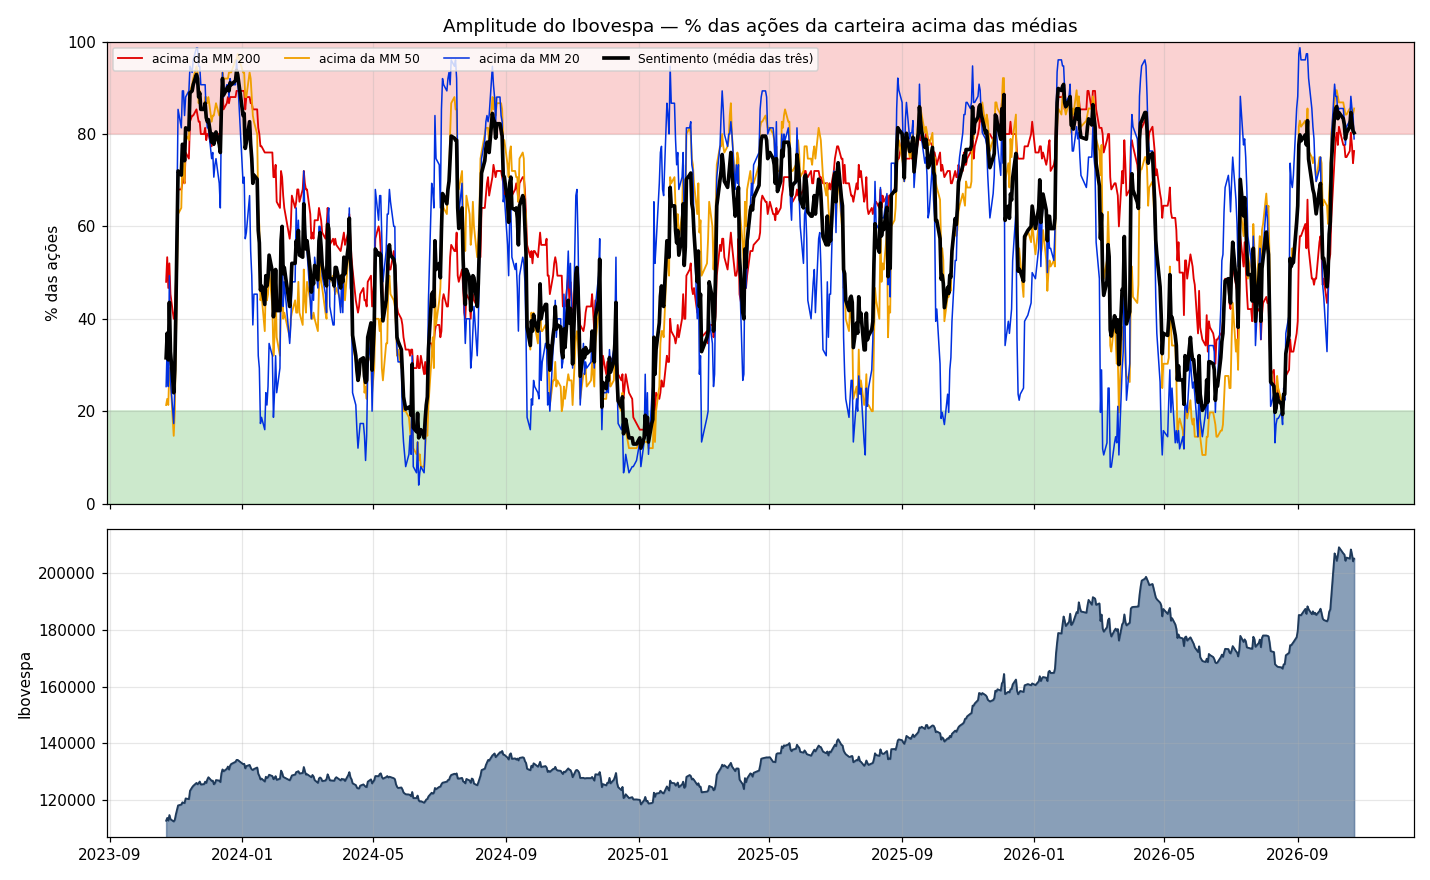
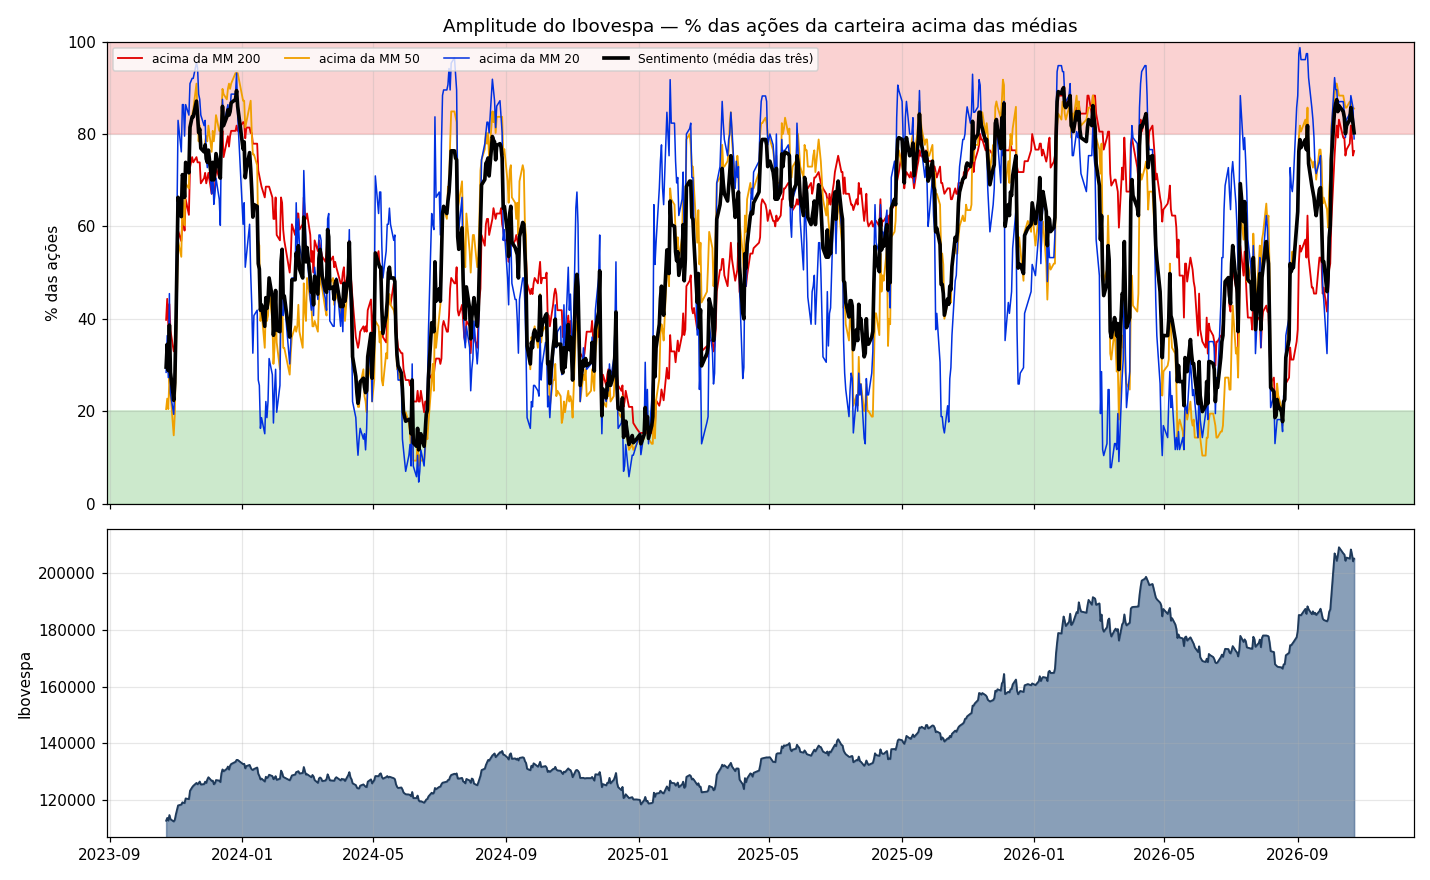
🤖 Auto: Sinal 23/10/2026 18:10

diff --git a/content/amplitude/index.md b/content/amplitude/index.md
@@ -5,7 +5,7 @@ description: "Porcentagem das ações do Ibovespa acima das médias de 20, 50 e 
 tags: [amplitude]
 ---
 
-*Atualizado 23/10/2026 17:57 · fechamento de 23/10/2026.*
+*Atualizado 23/10/2026 18:10 · fechamento de 23/10/2026.*
 
 A **amplitude** mostra quantas ações do Ibovespa estão acompanhando o movimento do índice: a porcentagem das ações da carteira que estão **acima das suas médias** de 20, 50 e 200 pregões. O **sentimento** é a média das três. **Abaixo de 20**: quase todas as ações caindo — exaustão vendedora, região de fundos. **Acima de 80**: quase todas subindo — exaustão compradora, região de topos.
 
@@ -19,42 +19,42 @@ A **amplitude** mostra quantas ações do Ibovespa estão acompanhando o movimen
 | Data | Sentimento | MM 20 | MM 50 | MM 200 |
 |---|---|---|---|---|
 | 23/10/2026 | **80%** 🔴 | 79% | 86% | 76% |
-| 22/10/2026 | **81%** 🔴 | 84% | 84% | 74% |
-| 21/10/2026 | **82%** 🔴 | 86% | 84% | 78% |
-| 20/10/2026 | **85%** 🔴 | 88% | 86% | 80% |
-| 19/10/2026 | **82%** 🔴 | 83% | 86% | 76% |
-| 16/10/2026 | **80%** 🔴 | 82% | 84% | 75% |
-| 15/10/2026 | **79%**  | 78% | 84% | 75% |
-| 14/10/2026 | **82%** 🔴 | 83% | 86% | 78% |
-| 13/10/2026 | **83%** 🔴 | 86% | 87% | 78% |
-| 09/10/2026 | **85%** 🔴 | 86% | 87% | 82% |
+| 22/10/2026 | **82%** 🔴 | 86% | 86% | 75% |
+| 21/10/2026 | **84%** 🔴 | 87% | 86% | 79% |
+| 20/10/2026 | **86%** 🔴 | 88% | 87% | 82% |
+| 19/10/2026 | **83%** 🔴 | 84% | 87% | 78% |
+| 16/10/2026 | **82%** 🔴 | 83% | 86% | 77% |
+| 15/10/2026 | **80%** 🔴 | 79% | 86% | 75% |
+| 14/10/2026 | **84%** 🔴 | 84% | 87% | 79% |
+| 13/10/2026 | **85%** 🔴 | 87% | 88% | 79% |
+| 09/10/2026 | **86%** 🔴 | 87% | 88% | 83% |
 
 ## Quando entrou nas zonas
 
 | Início | Zona | Sentimento |
 |---|---|---|
-| 16/10/2026 | 🔴 acima de 80 | 80% |
-| 05/10/2026 | 🔴 acima de 80 | 84% |
-| 10/09/2026 | 🔴 acima de 80 | 83% |
-| 18/08/2026 | 🟢 abaixo de 20 | 19% |
-| 11/08/2026 | 🟢 abaixo de 20 | 20% |
+| 05/10/2026 | 🔴 acima de 80 | 85% |
+| 10/09/2026 | 🔴 acima de 80 | 82% |
+| 17/08/2026 | 🟢 abaixo de 20 | 20% |
+| 11/08/2026 | 🟢 abaixo de 20 | 19% |
+| 05/06/2026 | 🟢 abaixo de 20 | 20% |
 | 09/04/2026 | 🔴 acima de 80 | 82% |
-| 19/02/2026 | 🔴 acima de 80 | 82% |
+| 19/02/2026 | 🔴 acima de 80 | 81% |
 | 22/01/2026 | 🔴 acima de 80 | 87% |
-| 02/12/2025 | 🔴 acima de 80 | 85% |
-| 26/11/2025 | 🔴 acima de 80 | 84% |
-| 05/11/2025 | 🔴 acima de 80 | 86% |
-| 16/09/2025 | 🔴 acima de 80 | 80% |
-| 05/09/2025 | 🔴 acima de 80 | 80% |
-| 28/08/2025 | 🔴 acima de 80 | 81% |
-| 18/12/2024 | 🟢 abaixo de 20 | 15% |
+| 02/12/2025 | 🔴 acima de 80 | 84% |
+| 26/11/2025 | 🔴 acima de 80 | 82% |
+| 11/11/2025 | 🔴 acima de 80 | 85% |
+| 05/11/2025 | 🔴 acima de 80 | 83% |
+| 17/09/2025 | 🔴 acima de 80 | 84% |
+| 08/01/2025 | 🟢 abaixo de 20 | 16% |
+| 18/12/2024 | 🟢 abaixo de 20 | 14% |
 
 > [!warning] Ainda não testado
 > Antes de virar regra ou filtro, a amplitude passa pelo mesmo teste das outras ferramentas (treino 2001–2013, teste 2014–hoje, comparação com o acaso). Até lá é **contexto**.
 
 > [!info]- Como é calculado e limites
 > - Cotações ajustadas do Yahoo; médias simples de 20, 50 e 200 pregões de cada ação; só entram as ações com dados suficientes no dia.
-> - **Carteira:** a atual vem da B3; as antigas, das notícias de cada rebalanceamento (quando registradas). No passado ainda o cálculo usa a carteira atual — **aproximado**: ações que saíram da bolsa não têm cotação e as que entraram depois não deveriam contar.
+> - **Carteira:** a atual vem da B3. As antigas foram **reconstruídas por liquidez** — em janeiro, maio e setembro de cada ano, as ações mais negociadas dos 12 meses anteriores, no tamanho que o índice tinha na época (78 carteiras desde 2001). É o critério principal da B3 (negociabilidade), mas não é a carteira oficial. Conferência: a reconstrução para 01/09/2026 acerta **73 de 76** ações da carteira oficial (96%). Ações que fecharam o capital ou quebraram não têm cotação no Yahoo e ficam de fora.
 > - A carteira muda em janeiro, maio e setembro: o arquivo da B3 precisa ser atualizado nessas datas.
 
 [Sinais](sinais-topo-fundo/) · [Operações](operacoes/) · [🌎 Capital estrangeiro](estrangeiros/)
